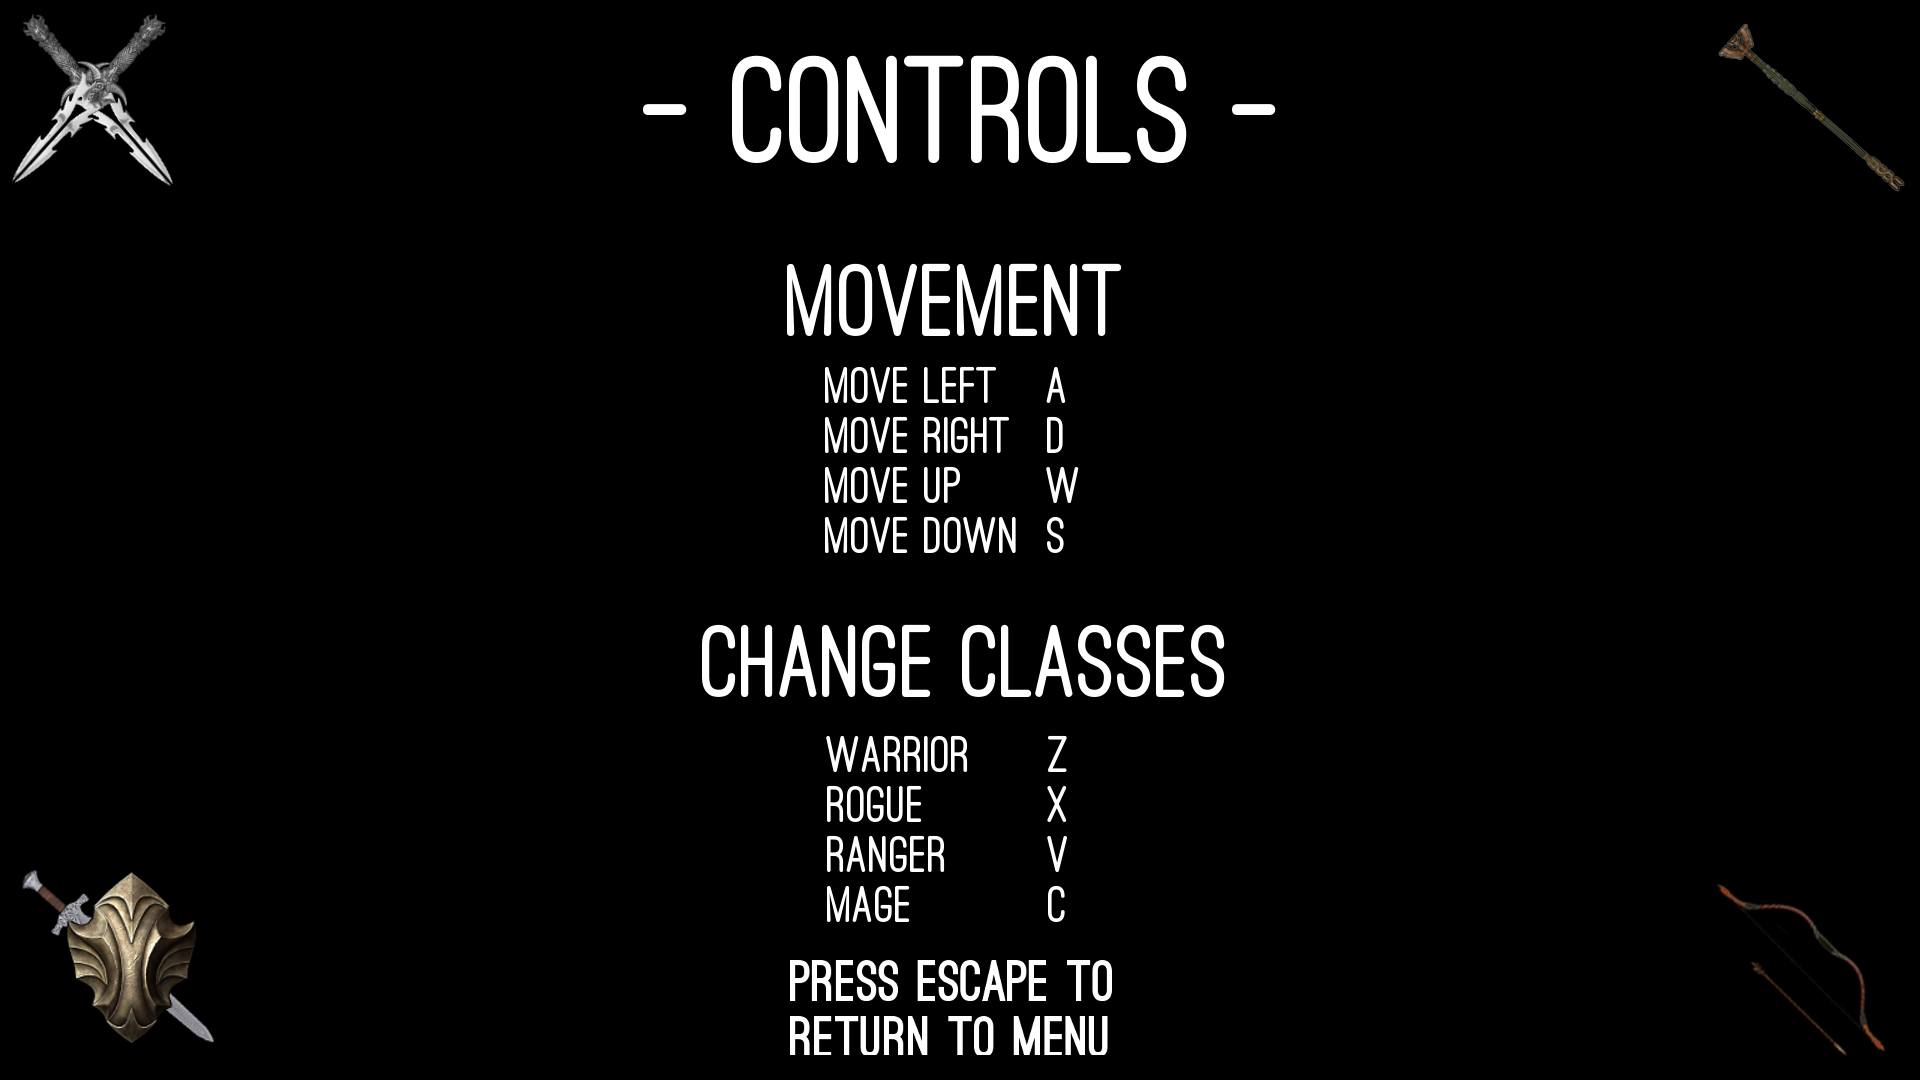
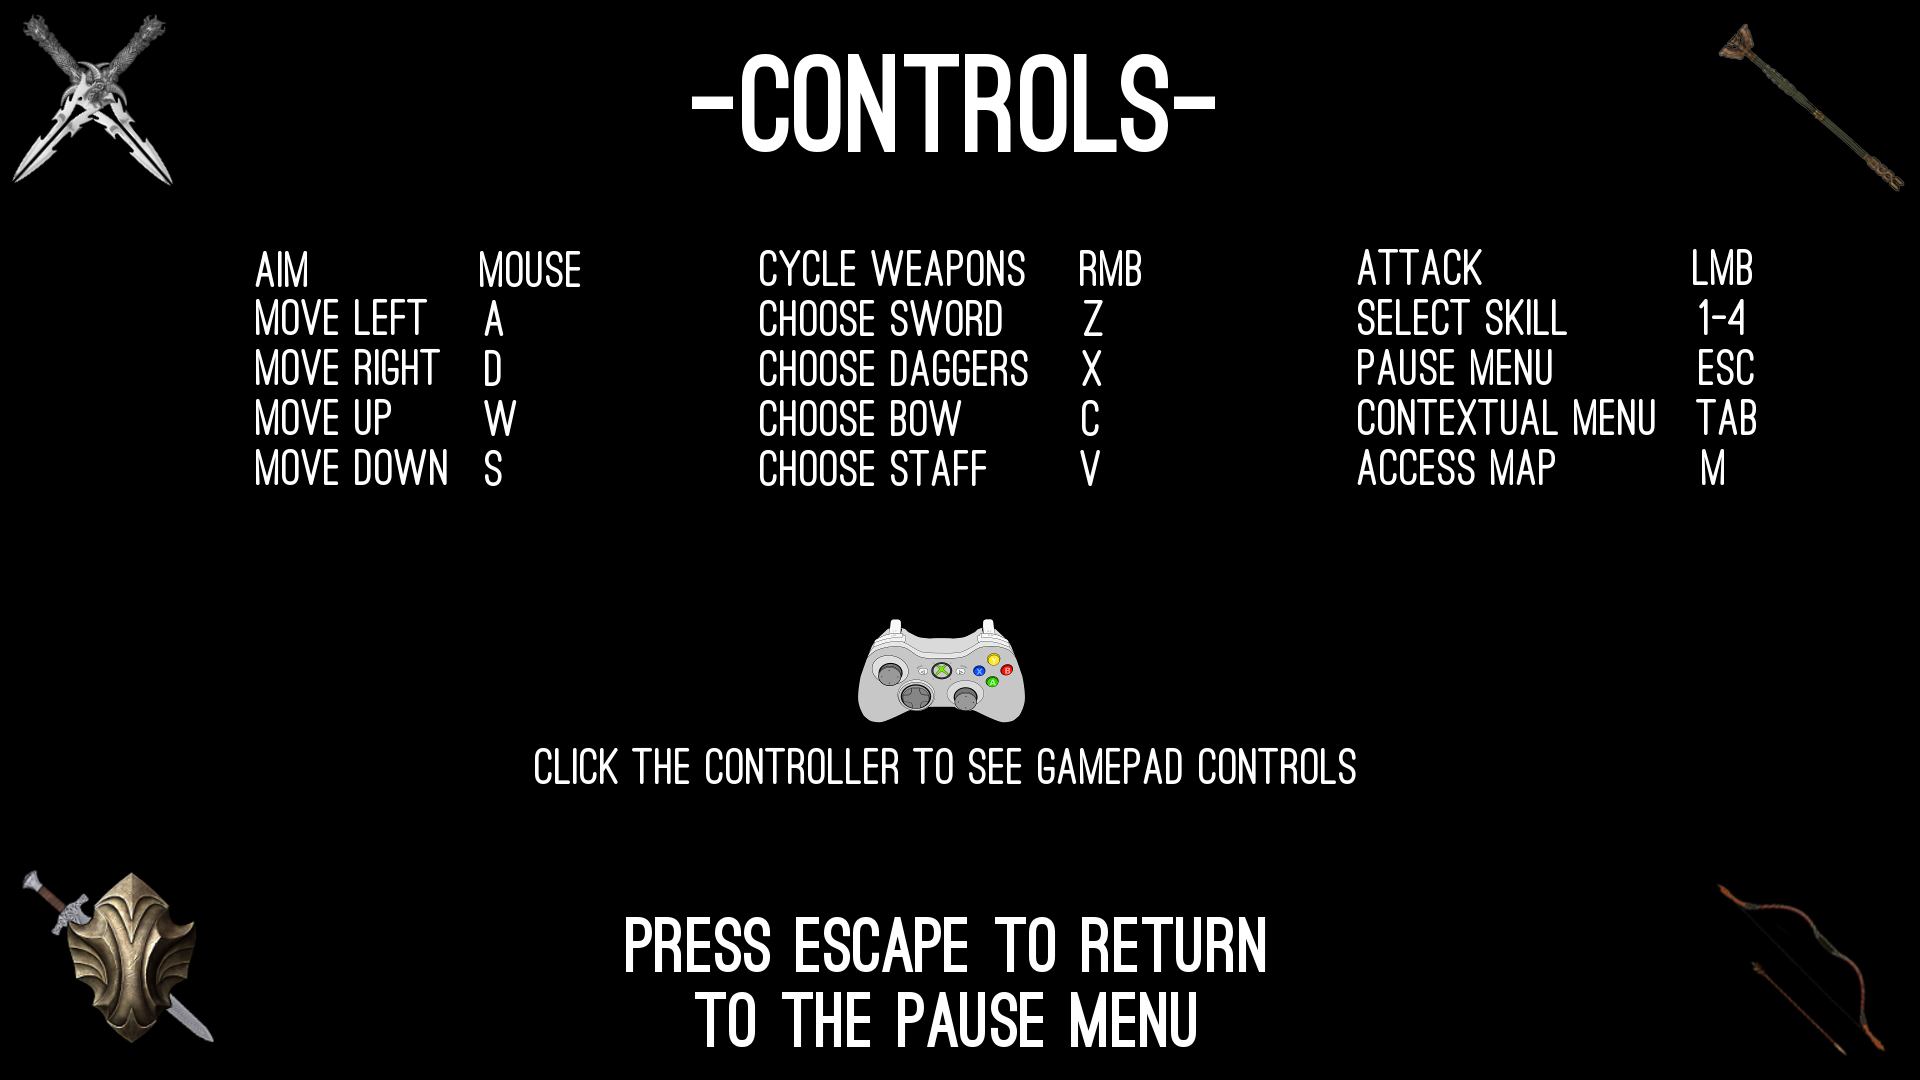
Updated the "Controls" page to show all non-debug controls. Includes gamepad controls. Updated a button in the main menu to reflect what it actually does.

diff --git a/Once A Rogue/Once A Rogue/Game1.cs b/Once A Rogue/Once A Rogue/Game1.cs
@@ -37,6 +37,10 @@ namespace Once_A_Rogue
         enum ContextState { Skills, Lore }
         ContextState contextState;
 
+        //Enums for control menu state
+        enum ControlState { kb, gp }
+        ControlState controlState;
+
         //Declare a grid to keep track of level space
         string [,] gridSystem;       
         const int ROWS = 9;
@@ -112,7 +116,7 @@ namespace Once_A_Rogue
         Dictionary<string, Texture2D> mapTextures = new Dictionary<string, Texture2D>();
 
         //Declare HUD Textures
-        Texture2D pause, exit, resume, select, control, controls, mage, ranger, sword, rogue, back, main, sky, play, exitM, mana, health, container;
+        Texture2D pause, exit, resume, select, control, controls, mage, ranger, sword, rogue, back, main, sky, play, exitM, mana, health, container, controlsGP;
         Texture2D contextSkill, contextLore, skillSwitch, loreSwitch, skillMage, skillRogue, skillWarrior, skillRanger, loreEntry;
 
         //Keyboard states
@@ -252,11 +256,12 @@ namespace Once_A_Rogue
 
             //Initialize HUD textures
             pause = Content.Load<Texture2D>("HUDStuff/HUDpause.png");
-            exit = Content.Load<Texture2D>("HUDStuff/HUDexittowindowsbutton.png");
+            exit = Content.Load<Texture2D>("HUDStuff/HUDexitmain.png");
             select = Content.Load<Texture2D>("HUDStuff/HUDselect.png");
             resume = Content.Load<Texture2D>("HUDStuff/HUDresume.png");
             control = Content.Load<Texture2D>("HUDStuff/HUDcontrol.png");
             controls = Content.Load<Texture2D>("HUDStuff/HUDcontrols.png");
+            controlsGP = Content.Load<Texture2D>("HUDStuff/HUDcontrolsgp.png");
             sword = Content.Load<Texture2D>("HUDStuff/HUDsword.png");
             rogue = Content.Load<Texture2D>("HUDStuff/HUDrogue.png");
             mage = Content.Load<Texture2D>("HUDStuff/HUDmage.png");
@@ -279,6 +284,7 @@ namespace Once_A_Rogue
             skillWarrior = Content.Load<Texture2D>("HUDStuff/HUDskillwarrior");
             skillRogue = Content.Load<Texture2D>("HUDStuff/HUDskillrogue");
             loreEntry = Content.Load<Texture2D>("HUDStuff/LoreEntry.png");
+
 
             //Initialize MiniMap textures and add them to the map texture dictionary
             mapTextures.Add("BlackSlate", blackSlate = Content.Load<Texture2D>("BlackSlate.png"));
@@ -630,6 +636,7 @@ namespace Once_A_Rogue
                 if(SingleKeyPress(Keys.Tab) || SingleKeyPress(Buttons.Back))
                 {
                     gameState = GameState.Context;
+                    contextState = ContextState.Skills;
                 }
 
                 //If M is pressed, toggle the visibility of the minimap
@@ -784,13 +791,40 @@ namespace Once_A_Rogue
 
             if (gameState == GameState.howTo)
             {
-                if (SingleKeyPress(Keys.Escape) || SingleKeyPress(Buttons.B))
+                mouseState = Mouse.GetState();
+
+                if (controlState == ControlState.kb)
                 {
-                    gameState = GameState.paused;
+                    if (SingleKeyPress(Keys.Escape) || SingleKeyPress(Buttons.B))
+                    {
+                        gameState = GameState.paused;
+                    }
+
+                    if ((mouseState.LeftButton == ButtonState.Pressed && previousMS.LeftButton == ButtonState.Released) && (mouseState.X >= 858 && mouseState.X <= 1025) && (mouseState.Y >= 619 && mouseState.Y <= 723))
+                    {
+                        controlState = ControlState.gp;
+                    }
+
+                    previousMS = mouseState;
+                }
+
+                if (controlState == ControlState.gp)
+                {
+                    if (SingleKeyPress(Keys.Escape) || SingleKeyPress(Buttons.B))
+                    {
+                        gameState = GameState.paused;
+                    }
+
+                    if ((mouseState.LeftButton == ButtonState.Pressed && previousMS.LeftButton == ButtonState.Released) && (mouseState.X >= 885 && mouseState.X <= 1014) && (mouseState.Y >= 694 && mouseState.Y <= 765))
+                    {
+                        controlState = ControlState.kb;
+                    }
+
+                    previousMS = mouseState;
                 }
             }
 
-            if(gameState == GameState.paused)
+            if (gameState == GameState.paused)
             {
                 mouseState = Mouse.GetState();
 
@@ -813,7 +847,7 @@ namespace Once_A_Rogue
                     {
                         arrowState = ArrowState.pos1;
                     }
-                    if (SingleKeyPress(Keys.S) || (mouseState.X >= 100 && mouseState.X <= 563) && (mouseState.Y >= 501 && mouseState.Y <= 555) || (SingleGamePadMove(prevLeftStickInput, leftStickInput) && leftStickInput.Y > deadZone))
+                    if (SingleKeyPress(Keys.S) || (mouseState.X >= 100 && mouseState.X <= 598) && (mouseState.Y >= 501 && mouseState.Y <= 555) || (SingleGamePadMove(prevLeftStickInput, leftStickInput) && leftStickInput.Y > deadZone))
                     {
                         arrowState = ArrowState.pos3;
                     }
@@ -822,7 +856,7 @@ namespace Once_A_Rogue
                 {
                     gameState = GameState.howTo;
                 }
-                if ((arrowState == ArrowState.pos3) && (kbs.IsKeyDown(Keys.Enter)) || ((mouseState.LeftButton == ButtonState.Pressed && (mouseState.X >= 100 && mouseState.X <= 563) && (mouseState.Y >= 501 && mouseState.Y <= 555))) || ((arrowState == ArrowState.pos3) && (gPadState.IsButtonDown(Buttons.A))))
+                if ((arrowState == ArrowState.pos3) && (kbs.IsKeyDown(Keys.Enter)) || ((mouseState.LeftButton == ButtonState.Pressed && (mouseState.X >= 100 && mouseState.X <= 598) && (mouseState.Y >= 501 && mouseState.Y <= 555))) || ((arrowState == ArrowState.pos3) && (gPadState.IsButtonDown(Buttons.A))))
                 {
                     gameState = GameState.MainMenu;
                     arrowState = ArrowState.menu1;
@@ -848,7 +882,7 @@ namespace Once_A_Rogue
                 {
                     arrowState = ArrowState.pos2;
                 }
-                if((mouseState.X >= 100 && mouseState.X <= 563) && (mouseState.Y >= 501 && mouseState.Y <= 555))
+                if((mouseState.X >= 100 && mouseState.X <= 598) && (mouseState.Y >= 501 && mouseState.Y <= 555))
                 {
                     arrowState = ArrowState.pos3;
                 }
@@ -1007,12 +1041,18 @@ namespace Once_A_Rogue
                     spriteBatch.Draw(select, new Vector2(30, 504), Color.White);
                 }
             }
-
-            if(gameState == GameState.howTo)
+            if (gameState == GameState.howTo)
             {
-                spriteBatch.Draw(controls, new Vector2(0, 0), Color.White);
-            }
+                if (controlState == ControlState.kb)
+                {
+                    spriteBatch.Draw(controls, new Vector2(0, 0), Color.White);
+                }
 
+                if (controlState == ControlState.gp)
+                {
+                    spriteBatch.Draw(controlsGP, new Vector2(0, 0), Color.White);
+                }
+            }
             if (gameState == GameState.GameOver)
             {
                 spriteBatch.DrawString(alertText, "Level(s) acheived: " + player.Level, new Vector2(740, 400), Color.White);
